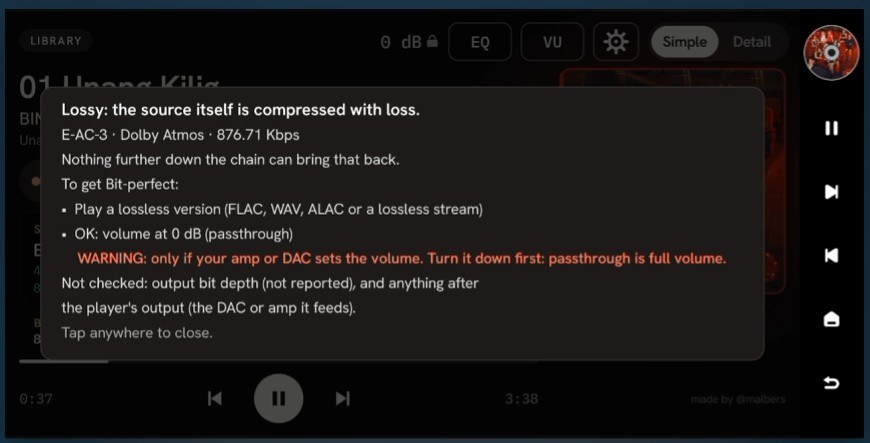
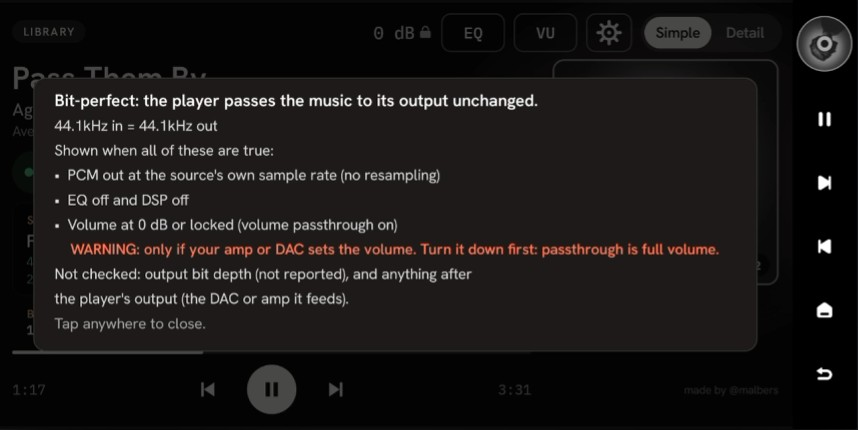
README: Tap the badge screenshot (the Bit-perfect panel)

diff --git a/README.md b/README.md
@@ -100,9 +100,9 @@ Big, readable from across the room:
 |---|---|
 | ![MQA to DAC](docs/screenshots/1b-simple-mqa.jpg) | ![EQ active](docs/screenshots/1c-simple-eq.jpg) |
 
-**Tap the badge** to see what it means on your player right now, and, when you're not bit-perfect, a live checklist of what to change:
+**Tap the badge** to see what it means on your player right now: here, exactly which conditions make it Bit-perfect. When you're not bit-perfect, the same panel shows a live checklist of what to change.
 
-![Tap the badge: what it means and what to change](docs/screenshots/1g-badge-panel.jpg)
+![Tap the badge: Bit-perfect, and the conditions behind it](docs/screenshots/1g-badge-panel.jpg)
 
 ### Detail: stats for nerds
 
